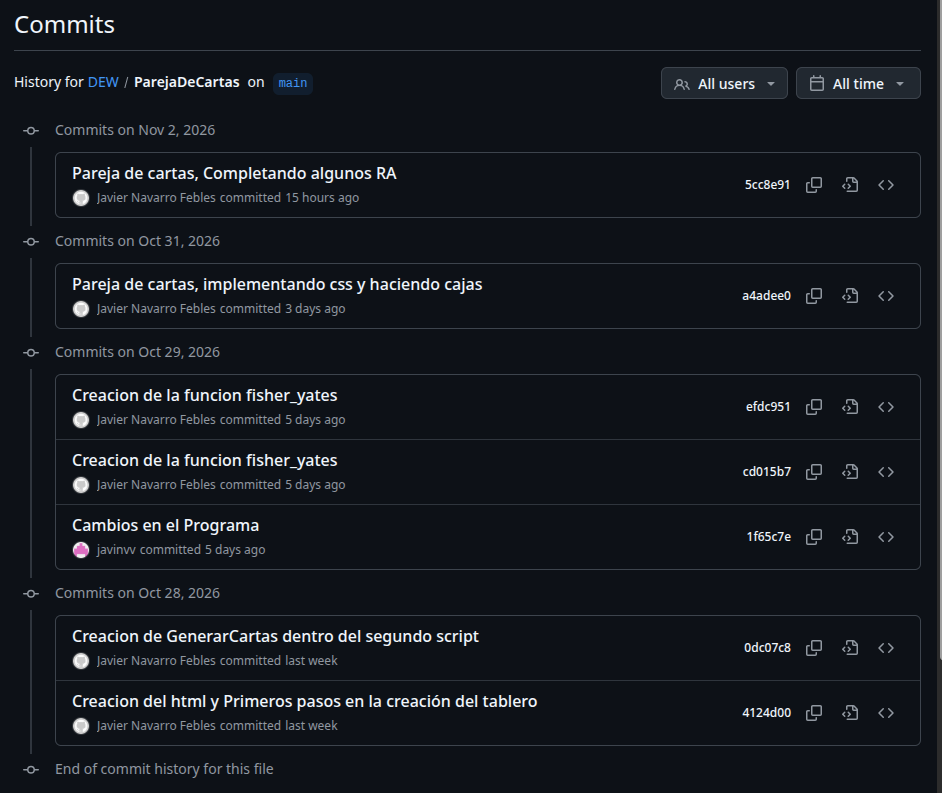
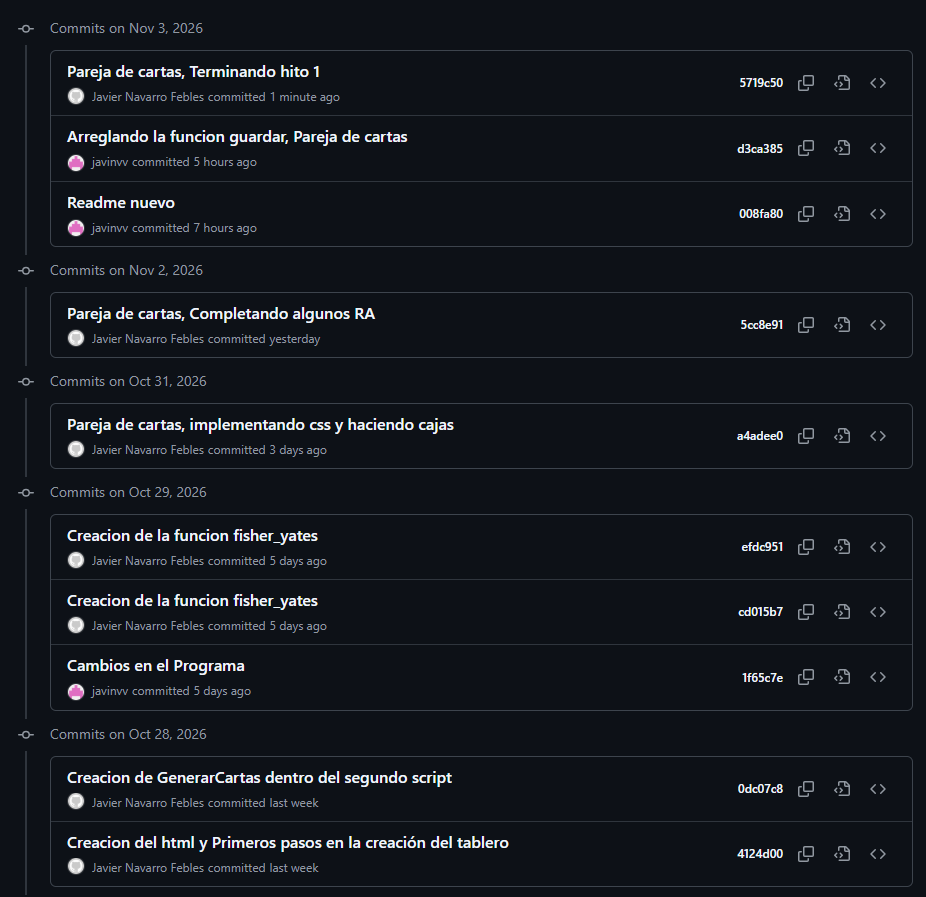
Pareja de cartas, Arreglos en Readme.md

diff --git a/ParejaDeCartas/README.md b/ParejaDeCartas/README.md
@@ -1,5 +1,5 @@
-# Intrucciones de mi ejercicio
+# Intrucciones de mi ejercicio Pareja de Cartas.
 
 Primero debemos tener instalado live server, para poder ejecutarlo desde el navegador.
 
-Ademas podemos guardar nuestro programa si en la consola llamamos a la funcion guardar, tambien podemos restablecer los valores iniciales con la funcion restablecer, y con la funcion fin terminamos el programa.
+Cuando entramos a la pestaña vemos que nos pide un numero de parejas, le decimos el que queramos siempre y cuando este entre 4 y 12, luego desde la consola podemos llamar a la funcion fin para terminar nuestro programa, despues de esto reiniciamos la pagina y empezamos de nuevo.
